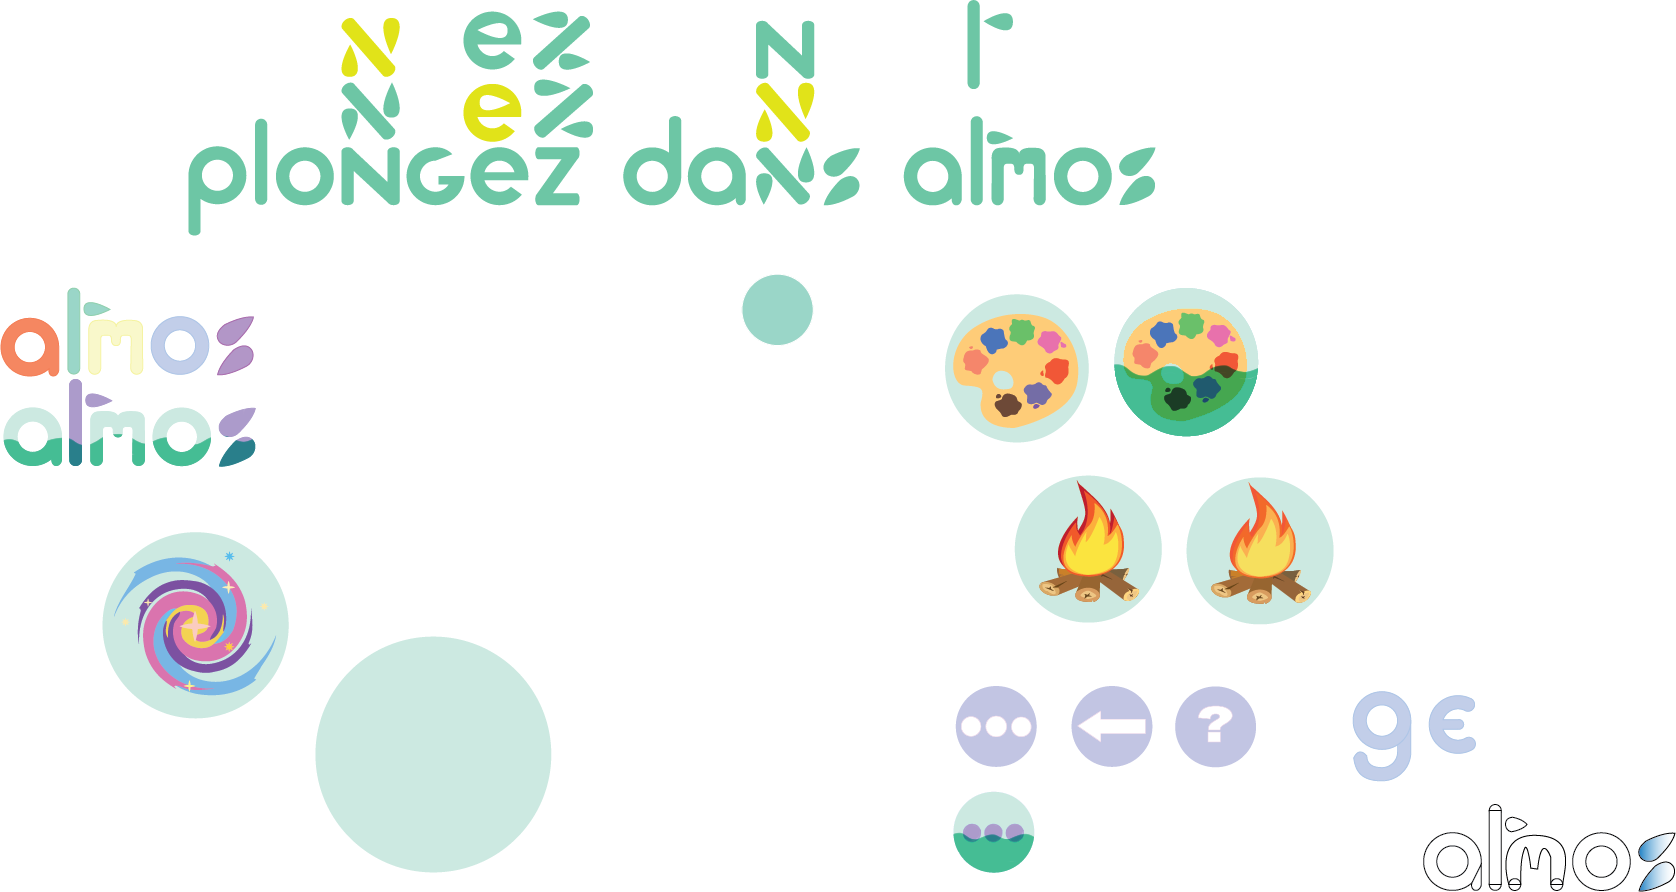
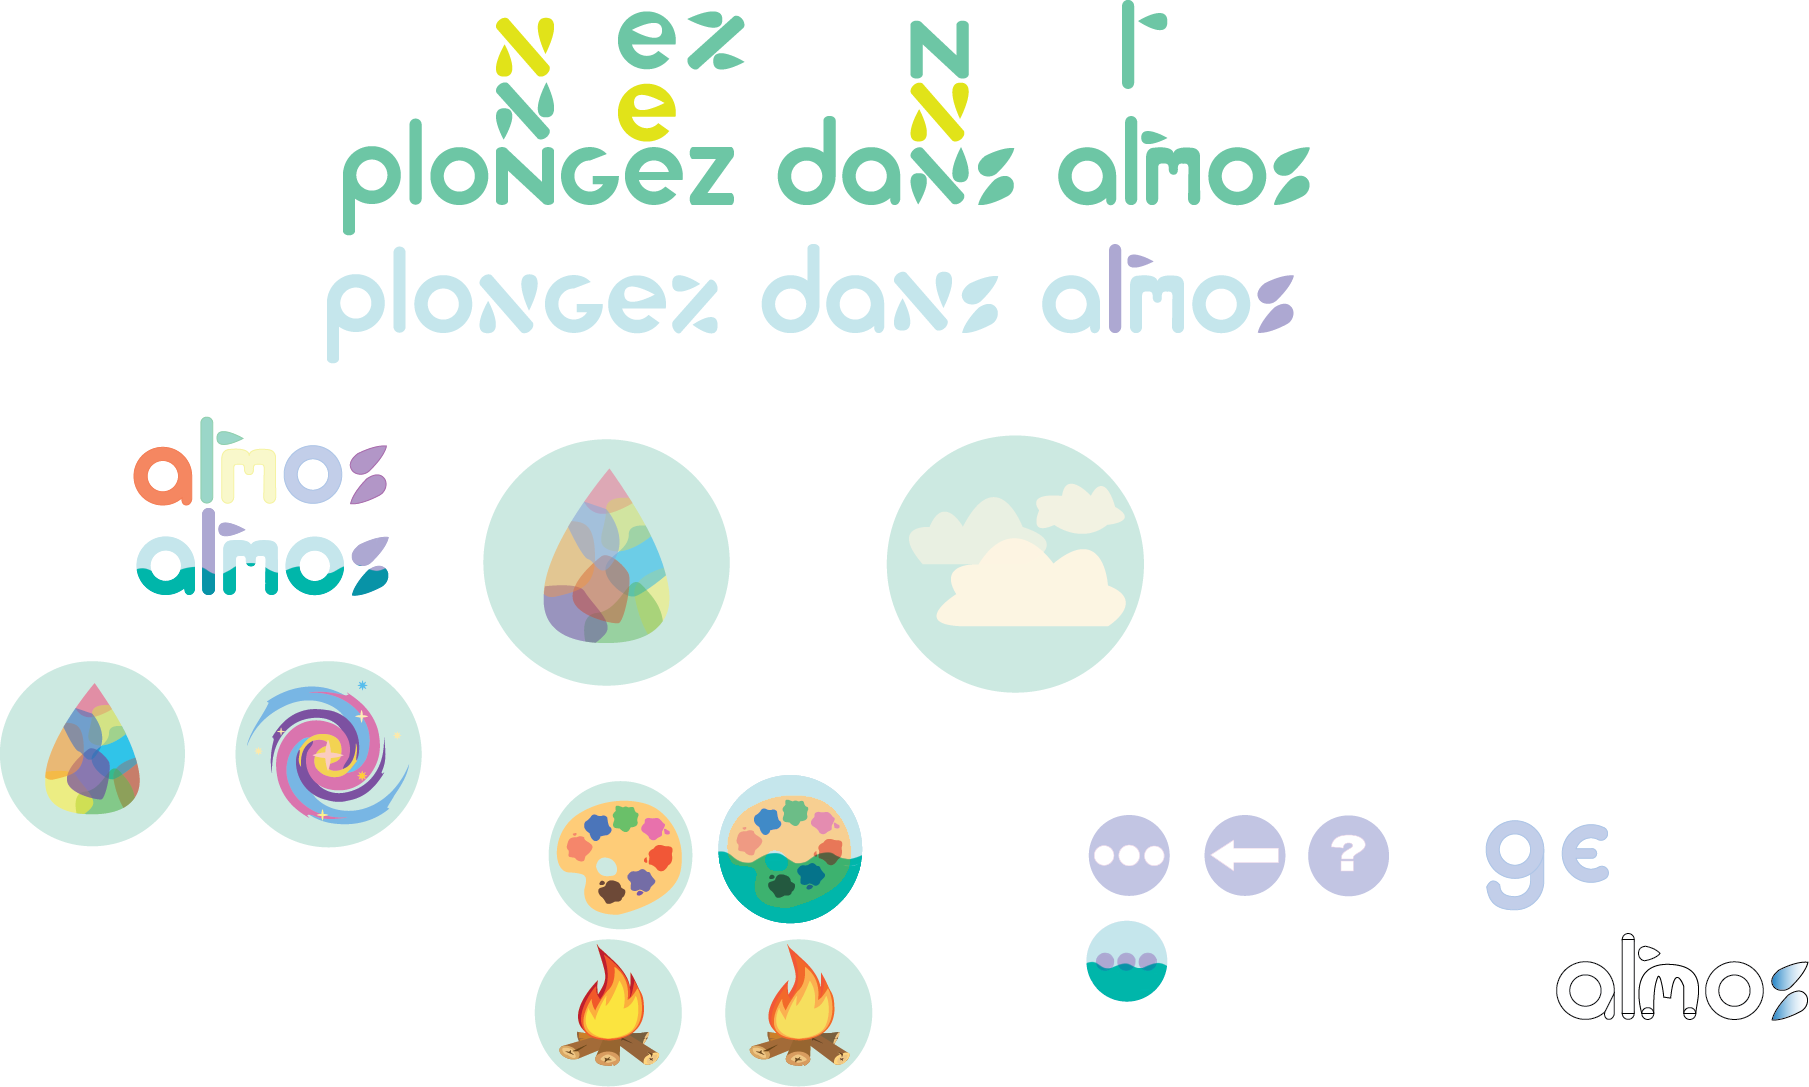
Add files via upload

diff --git a/style.css b/style.css
@@ -31,7 +31,7 @@
   border: none;
   cursor: pointer;
   background-color: inherit;
-
+  font-family: inherit;
 
 }
 
@@ -127,26 +127,29 @@ video {
   letter-spacing: .3rem;r
 }
 #container {
-  padding: 10px;
-  float: center;
+  font-family: Agenda-Light, Agenda Light, Agenda, sans-serif;
+  font-size: 8px;
+  color: white;
+  padding: 2rem;
   margin-top: 10px;
+  display: center;
+  align-items: center;
   overflow: hidden;
-  outline: none;
 }
 
-#container .plongez {
+#container button {
   display: block;
   padding: .4rem;
   border: none;
-  outline: none;
   margin: auto;
+  font-size: 1.3rem;
   background: rgba(255,255,255,0.23);
+  color: #fff;
   border-radius: 120px;
   cursor: pointer;
   transition: .3s background;
 }
-
-#container .plongez:hover {
+#container button:hover {
    background: rgba(0,0,0,0.5);
 }
 
@@ -154,16 +157,15 @@ video {
   height: 90px;
 }
 
-
-.icone-items-plus {
-  display: none;
-  z-index: 0;
-  position: absolute;
-
+#polina a {
+  color: #fff;
+  text-decoration: none;
+  background:rgba(0,0,0,0.5);
+  padding: .5rem;
+  transition: .6s background;
 }
-
-#container:hover .icone-items-plus {
-  display: inline-flex;
+#polina a:hover{
+  background:rgba(0,0,0,0.9);
 }
 
 

diff --git a/site.html b/site.html
@@ -13,8 +13,10 @@
 			<button class="bouton"><img src= "ATMOS2.png"></button>
 			<div class="items-plus">
 				<div class="palette"><a href="page palette.html"><img src="ATMOS palette.png"></a></div>
+				<div class="pouring"><a href="page pouring.html"><img src="ATMOS pouring.png"></a></div>
 				<div class="feu"><a href="page feu.html"><img src="ATMOS feu.png"></a>
 				</div>
+				<div class="nuage"><a href="page nuage.html"><img src="ATMOS nuage.png"></a></div>
 			    <div class="espace"><a href="page espace.html"><img src="ATMOS espace.png"></a></div></div>
 		</div>
 		<nav>
@@ -40,13 +42,11 @@
 </div>
 
 <div id="container">
-<button class="plongez"><img src= "ATMOS3.png"></button>
-<div class="icone-items-plus">
-				<div class="icone-palette"><a href="page palette.html"><img src="ATMOS palette.png"></a></div>
-				<div class="icone-feu"><a href="page feu.html"><img src="ATMOS feu.png"></a>
-				</div>
-			    <div class="icone-espace"><a href="page espace.html"><img src="ATMOS espace.png"></a></div></div>
-</div>
+<p><button class="plongez"><img src= "ATMOS3.png"></button></p>
+<p class="icone-palette"><a href="page palette.html"><img src="ATMOS palette.png"></a></p></div>
+
+
+
 
 </body>
 </html>

diff --git a/page feu.html b/page feu.html
@@ -13,8 +13,10 @@
 			<button class="bouton"><img src= "ATMOS2.png"></button>
 			<div class="items-plus">
 				<div class="palette"><a href="page palette.html"><img src="ATMOS palette.png"></a></div>
+				<div class="pouring"><a href="page pouring.html"><img src="ATMOS pouring.png"></a></div>
 				<div class="feu"><a href="page feu.html"><img src="ATMOS feu.png"></a>
 				</div>
+				<div class="nuage"><a href="page nuage.html"><img src="ATMOS nuage.png"></a></div>
 			    <div class="espace"><a href="page espace.html"><img src="ATMOS espace.png"></a></div></div>
 		</div>
 		<nav>

diff --git a/java.js b/java.js
@@ -19,3 +19,6 @@ vid.pause();
 vidFade();
 });
 
+$('button').click(function(){
+  $('.icone-palette').toggle();
+});
